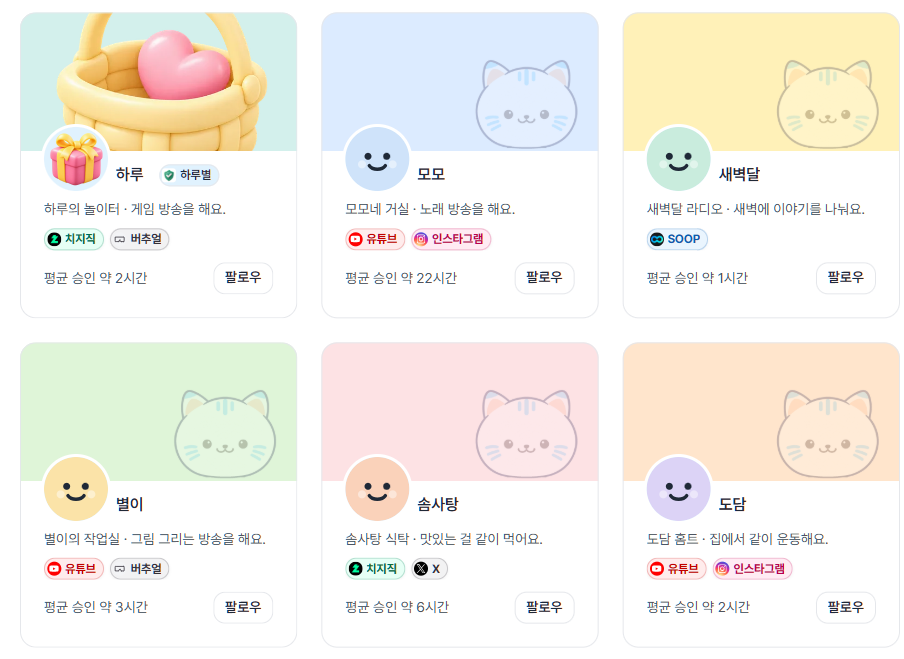
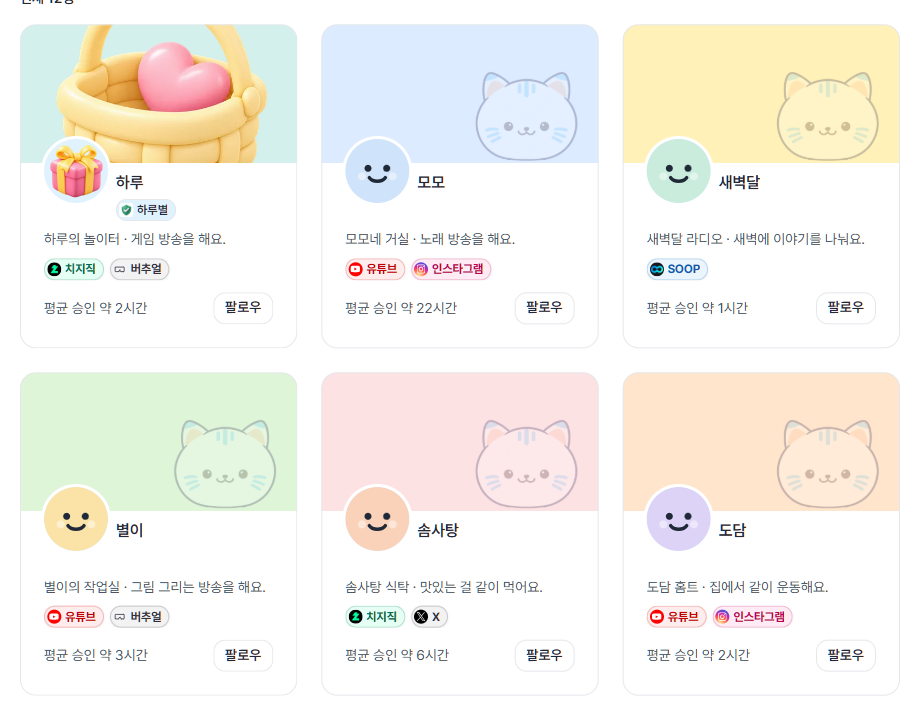
feat(fankkuk): 크리에이터 카드 이름·뱃지 두 줄 — 긴 이름이 뱃지를 밀어내지 않게 · 전후 비교에 긴 이름

diff --git a/projects/fankkuk/src/entities/creator/ui/creator-card-head.module.css b/projects/fankkuk/src/entities/creator/ui/creator-card-head.module.css
@@ -15,21 +15,24 @@
 .cover { position: relative; overflow: hidden; aspect-ratio: 2 / 1; margin: calc(var(--card-pad) * -1) calc(var(--card-pad) * -1) 0; background: var(--pastel, var(--primary-50)); }
 .ringed .cover { background: var(--personal); }
 
-/* 사진 64(배너에 32 걸침, 왼쪽 — 카드 안쪽 여백 24 선) + 오른쪽에 이름·팬덤 뱃지 한 줄(높이 32) */
+/* 사진 64(배너에 32 걸침, 왼쪽 — 카드 안쪽 여백 24 선) + 오른쪽에 이름 한 줄 · 그 아래 뱃지 한 줄(2026-10-18 「A로」 — 한 줄에 두면 긴 이름이 뱃지를 밀어낸다) */
 .who { display: flex; align-items: flex-start; gap: var(--space-2); min-width: 0; }
 .photo:global(.face) { position: relative; flex: none; width: 64px; height: 64px; margin-top: -32px; box-shadow: 0 0 0 3px var(--white); }
 .ringed .photo:global(.face) { box-shadow: 0 0 0 3px var(--personal), 0 0 0 6px var(--white); }
+.id { display: flex; flex-direction: column; gap: var(--space-1); flex: 1; min-width: 0; }
 
-/* 이름(16 · 600, 한 줄 말줄임 — 전체 이름은 title) + 뱃지. 이름이 먼저 줄고, 뱃지는 최소 폭 44 까지 */
-.name { display: flex; align-items: center; gap: var(--space-2); flex: 1; min-width: 0; height: 32px; margin: 0; font-size: var(--fs-body); font-weight: var(--fw-h3); line-height: 1.4; }
-.name > a, .name > span:not([data-fandom-badge]) { flex: 0 1 auto; min-width: 2.2em; overflow: hidden; color: inherit; text-decoration: none; text-overflow: ellipsis; white-space: nowrap; }
+/* 이름(16 · 600, 한 줄 말줄임 — 전체 이름은 title). 이름 칸이 뱃지와 폭을 나누지 않는다 */
+.name { height: 24px; margin: 0; overflow: hidden; font-size: var(--fs-body); font-weight: var(--fw-h3); line-height: 24px; text-overflow: ellipsis; white-space: nowrap; }
+.name > a, .name > span { color: inherit; text-decoration: none; }
 .name a:hover { text-decoration: underline; text-underline-offset: 4px; }
 /* 이름 링크가 카드 전체를 덮으므로 포커스 테두리는 카드(li)에 그린다 — 찾기·팔로우·홈 화면의 .card:has. 이름 칸은 overflow 로 잘리므로 여기선 끈다 */
 .name a:focus-visible { outline: none; }
 /* 카드 전체가 프로필 링크 — 이름 링크가 카드(position: relative)를 덮는다. z-index 1 = 칩 줄(position: relative)·사진보다 위(하단 버튼 .act 는 2) */
 .name a::after { content: ""; position: absolute; inset: 0; z-index: 1; }
-/* 카드 안 뱃지만 최소 폭 44(시안 .fn) — 이름이 길어도 마크와 글자 한두 자는 남는다. 다른 곳의 뱃지는 그대로 */
-.name > [data-fandom-badge] { flex: 0 100 auto; min-width: 44px; overflow: hidden; }
+
+/* 팬덤 뱃지 줄(높이 22) — 뱃지가 없어도 빈칸으로 남는다. 뱃지는 이 줄 폭 안에서만, 넘치면 잘린다(팬덤 이름은 최대 10자라 보통 다 보인다) */
+.badgeRow { display: flex; align-items: center; height: 22px; margin: 0; min-width: 0; }
+.badgeRow > [data-fandom-badge] { min-width: 0; max-width: 100%; overflow: hidden; }
 
 /* 「채널 이름 · 소개」 한 줄(14 회색, 높이 21) — 비어도 자리는 남는다 */
 .line { height: 21px; margin: 0; overflow: hidden; font-size: var(--fs-small); line-height: var(--lh-caption); color: var(--gray-600); text-overflow: ellipsis; white-space: nowrap; }

diff --git a/projects/fankkuk/docs/design/mockups/site/v28-card-redesign/compare.html b/projects/fankkuk/docs/design/mockups/site/v28-card-redesign/compare.html
@@ -25,18 +25,28 @@
 <body>
 <div class="wrap">
   <h1>크리에이터 카드 — 전 · 후</h1>
-  <p class="lead">같은 로컬 데이터(크리에이터 12명), 로그인 전, 개발 서버에서 찍었다. 전 = 커밋 299890ea, 후 = 5ec7a9f5.</p>
+  <p class="lead">같은 로컬 데이터(크리에이터 12명), 로그인 전, 개발 서버에서 찍었다. 전 = 커밋 299890ea, 후 = 5ec7a9f5 + 이름·뱃지 두 줄(사용자 「A로」).</p>
 
   <h2>PC 1440 폭</h2>
   <div class="row">
     <figure><figcaption>전<span>사진 56 가운데 · 팔로우는 배너 모서리 · 승인 시간 없음</span></figcaption><img src="compare/before-1440.png" alt="바꾸기 전 카드 격자, 1440 폭"></figure>
-    <figure><figcaption>후<span>사진 64 왼쪽 · 이름+뱃지 한 줄 · 아래 줄에 승인 시간+팔로우</span></figcaption><img src="compare/after-1440.png" alt="바꾼 뒤 카드 격자, 1440 폭"></figure>
+    <figure><figcaption>후<span>사진 64 왼쪽 · 이름 줄 아래 뱃지 줄 · 아래 줄에 승인 시간+팔로우</span></figcaption><img src="compare/after-1440.png" alt="바꾼 뒤 카드 격자, 1440 폭"></figure>
   </div>
 
   <h2>휴대폰 390 폭 (앞 두 장)</h2>
   <div class="row narrow">
     <figure><figcaption>전</figcaption><img src="compare/before-390.png" alt="바꾸기 전 카드, 390 폭"></figure>
     <figure><figcaption>후</figcaption><img src="compare/after-390.png" alt="바꾼 뒤 카드, 390 폭"></figure>
+  </div>
+  <h2>긴 이름 — 이름 20자 · 팬덤 이름 10자 (첫 카드)</h2>
+  <p class="lead" style="margin-bottom:16px">이름은 최대 20자, 팬덤 이름은 최대 10자까지 저장된다. 첫 카드에만 꽉 채운 값을 넣었다(화면에서 글자만 바꿔 찍음).</p>
+  <div class="row">
+    <figure><figcaption>한 줄일 때<span>이름이 자리를 다 써서 뱃지가 「하..」 한 글자만 남음 (두·세 번째 카드는 시험 중 틀어진 것 — 첫 카드만 보기)</span></figcaption><img src="compare/long-oneline-1440.png" alt="이름과 뱃지를 한 줄에 둔 카드, 긴 이름"></figure>
+    <figure><figcaption>두 줄(A)<span>1024 폭 — 카드가 가장 좁은 폭. 이름만 말줄임, 뱃지 10자 전부 보임</span></figcaption><img src="compare/long-after-1024.png" alt="이름 아래 뱃지를 둔 카드, 긴 이름, 1024 폭"></figure>
+  </div>
+  <div class="row narrow" style="margin-top:24px">
+    <figure><figcaption>두 줄(A) · 1440</figcaption><img src="compare/long-after-1440.png" alt="이름 아래 뱃지, 1440 폭"></figure>
+    <figure><figcaption>두 줄(A) · 390</figcaption><img src="compare/long-after-390.png" alt="이름 아래 뱃지, 390 폭"></figure>
   </div>
 </div>
 </body>

diff --git a/projects/fankkuk/src/entities/creator/ui/creator-card-head.tsx b/projects/fankkuk/src/entities/creator/ui/creator-card-head.tsx
@@ -11,7 +11,8 @@ import s from "./creator-card-head.module.css";
 // 크리에이터 카드 — 크리에이터 찾기·팔로우한 크리에이터·홈 새 크리에이터가 같이 쓴다(design-rules 17절 「크리에이터 카드 v28」,
 // 시안 docs/design/mockups/site/v28-card-redesign/index.html, DECISIONS 2026-10-18).
 // 위에서 아래로(줄 사이 8): 배너 2:1(배경사진, 없으면 테마 색 면 그대로 또는 파스텔 + 오른쪽 흐린 고양이)
-// → 사진 64(배너에 32 걸침, 왼쪽) + 오른쪽에 이름(600·한 줄 말줄임)·팬덤 뱃지 한 줄(CreatorCardHead)
+// → 사진 64(배너에 32 걸침, 왼쪽) + 오른쪽에 이름(600·한 줄 말줄임) 한 줄, 그 아래 팬덤 뱃지 한 줄(CreatorCardHead)
+//   — 한 줄에 나란히 두면 긴 이름이 뱃지를 「하..」까지 밀어내서 두 줄로 나눴다(2026-10-18 사용자 「A로」)
 // → 「채널 이름 · 소개」 한 줄(CreatorCardLine) → 플랫폼 칩 한 줄(CreatorCardTags)
 // → 하단 줄(CreatorCardFoot): 왼쪽 평균 승인 시간 · 오른쪽 버튼(팔로우·팔로우 중·내 페이지), 칩 줄과 12 띄움.
 // 줄마다 자리가 고정이다 — 소개·칩이 없어도 빈칸으로 남아 카드 높이가 같다.
@@ -50,16 +51,21 @@ export function CreatorCardHead({
       </div>
       <div className={s.who}>
         <CreatorPhoto photoUrl={look.photoUrl} tone={faceTone} className={`face ${s.photo}`} />
-        <p className={s.name}>
-          {href ? (
-            <Link href={href} title={name}>
-              {name}
-            </Link>
-          ) : (
-            <span title={name}>{name}</span>
-          )}
-          {look.fanName ? <FandomBadge name={look.fanName} symbolUrl={look.symbolUrl} themeColor={theme} /> : null}
-        </p>
+        <div className={s.id}>
+          <p className={s.name}>
+            {href ? (
+              <Link href={href} title={name}>
+                {name}
+              </Link>
+            ) : (
+              <span title={name}>{name}</span>
+            )}
+          </p>
+          {/* 뱃지 줄 — 뱃지가 없어도 자리는 남는다(카드 높이를 같게) */}
+          <p className={s.badgeRow}>
+            {look.fanName ? <FandomBadge name={look.fanName} symbolUrl={look.symbolUrl} themeColor={theme} /> : null}
+          </p>
+        </div>
       </div>
     </div>
   );

diff --git a/projects/fankkuk/src/entities/creator/ui/creator-card.test.tsx b/projects/fankkuk/src/entities/creator/ui/creator-card.test.tsx
@@ -38,7 +38,7 @@ describe("칩 줄에 들어가는 칩 수", () => {
   });
 });
 
-describe("크리에이터 카드 v28 — 사진 왼쪽 + 이름·뱃지 한 줄, 하단 줄 (design-rules 17절)", () => {
+describe("크리에이터 카드 v28 — 사진 왼쪽 + 이름 줄·뱃지 줄, 하단 줄 (design-rules 17절)", () => {
   const head = (fanName: string | null, personal: string | null = null, href: string | null = "/c/dawn") =>
     dom(
       renderToStaticMarkup(
@@ -62,13 +62,22 @@ describe("크리에이터 카드 v28 — 사진 왼쪽 + 이름·뱃지 한 줄,
     expect(preview.querySelector("[title]")?.textContent).toBe("새벽달빛라디오하루별이야하루별이달빛방송");
   });
 
-  it("팬덤 뱃지는 이름과 같은 줄(이름 바로 뒤) — 사진은 그 줄 앞", () => {
+  it("팬덤 뱃지는 이름 아래 자기 줄 — 이름 줄과 나눠서 긴 이름이 뱃지를 밀어내지 않는다, 사진은 두 줄 앞", () => {
     const host = head("달빛지기");
     const badge = host.querySelector("[data-fandom-badge]");
     expect(badge?.textContent).toBe("달빛지기");
-    expect(badge?.previousElementSibling?.tagName).toBe("A");
-    expect(badge?.parentElement?.previousElementSibling?.classList.contains("face")).toBe(true);
-    expect(head(null).querySelector("[data-fandom-badge]")).toBeNull();
+    const badgeRow = badge?.parentElement;
+    // 뱃지 줄에는 뱃지뿐, 바로 위 형제가 이름 줄(링크 하나)
+    expect(badgeRow?.children.length).toBe(1);
+    const nameRow = badgeRow?.previousElementSibling;
+    expect(nameRow?.querySelector("a")?.textContent).toBe(nameRow?.textContent);
+    expect(nameRow?.contains(badge ?? null)).toBe(false);
+    // 두 줄을 감싼 칸 바로 앞이 사진
+    expect(badgeRow?.parentElement?.previousElementSibling?.classList.contains("face")).toBe(true);
+    // 뱃지가 없어도 뱃지 줄 자리는 남는다(카드 높이를 같게)
+    const empty = head(null);
+    expect(empty.querySelector("[data-fandom-badge]")).toBeNull();
+    expect(empty.querySelector("a")?.parentElement?.nextElementSibling?.tagName).toBe("P");
   });
 
   it("INV-E13 S12: 사진 없는 배너·팬덤 뱃지가 테마 색을 쓴다(머리 변수 --personal · 뱃지 면)", () => {

diff --git a/projects/fankkuk/docs/design/design-rules.md b/projects/fankkuk/docs/design/design-rules.md
@@ -378,7 +378,7 @@ status: approved
 시안 `docs/design/mockups/site/v28-card-redesign/`(index.html · settings.html). 크리에이터 찾기·팔로우한 크리에이터·홈 새 크리에이터 카드가 같은 부품이다. 이 절이 「크리에이터 카드·공개 프로필 머리」의 카드 부분(가운데 정렬·모서리 버튼, 카드 d103)보다 앞선다.
 
 - 배너 2:1 · object-fit cover. 사진 없으면 테마 색 면(그대로, 섞지 않음) + 오른쪽 흐린 고양이(불투명도 0.22). 테마 색도 없으면 크리에이터 ID 로 정한 파스텔.
-- 사진 64, 배너에 32 걸침, 왼쪽(카드 안쪽 여백 24 선). 사진 오른쪽에 이름(16 · 600, 한 줄 말줄임) + 팬덤 뱃지(12, 최소 폭 44) 한 줄.
+- 사진 64, 배너에 32 걸침, 왼쪽(카드 안쪽 여백 24 선). 사진 오른쪽에 이름(16 · 600, 한 줄 말줄임, 높이 24) 한 줄, 그 아래 4 띄워 팬덤 뱃지(12) 한 줄(높이 22, 뱃지 없어도 자리 유지). 2026-10-18 사용자 「A로」 — 한 줄에 나란히 두면 긴 이름(최대 20자)이 뱃지를 「하..」까지 밀어냈다. 이름 20자 · 팬덤 10자를 넣어 1024(카드가 가장 좁은 폭)·1440·390 에서 뱃지가 다 보이는 것을 확인.
 - 본문 세 줄, 줄 사이 8: ① 「채널 이름 · 소개」 14 회색 한 줄 말줄임 ② 칩 한 줄(넘치면 +N) ③ 하단 줄 — 왼쪽 평균 승인 시간 14 회색(#4B5563), 오른쪽 「팔로우」 테두리 버튼 높이 32 · 누름 칸 44. 하단 줄은 칩 줄과 12 띄운다.
 - 카드 안쪽 여백 24(--card-pad), 반경 16, 카드 전체가 프로필 링크 · 버튼은 그 위(이동 안 됨). 마우스를 올리면 테두리 진하게, 초점은 카드에 3px 테두리.
 - 격자: 공개 폭 880 안에서 1024 이상 3열 · 640 이상 2열 · 그 아래 1열, 간격 24(휴대폰 16).

diff --git a/projects/fankkuk/workspace/review.md b/projects/fankkuk/workspace/review.md
@@ -1,7 +1,7 @@
 ---
 project: fankkuk
 status: passed
-basis: 94477ad1efaf
+basis: 86204fbb4230
 reviewers: [security-reviewer, code-reviewer, ui-reviewer, test-auditor]
 ---
 
@@ -16,3 +16,4 @@ reviewers: [security-reviewer, code-reviewer, ui-reviewer, test-auditor]
 - ui-reviewer: 4건 — 설정 카드 미리보기 머리만 → 카드 전체 / 휴대폰 홈 카드 줄 초점 테두리 잘림 → 여백 / 칩·뱃지 왼쪽 3px → 아이콘 보정이라 유지 / design-rules 권장 크기 1200×480 → 1200×600.
 - code-reviewer: 8건 — 홈 4→3장 근거(design-rules 16절·DECISIONS 기록) / personal 타입 ThemeColor 로 좁힘·재검사 한곳 / 쓰이지 않는 --on-personal 삭제(띠 위 글자 없음 — 스펙 INV-E14 고침) / 카드 틀 CSS 중복 하나로 / 주석 잔재 / 「내 페이지」 태그 누름 통과 / NO_COLORS / 미리보기 creatorId.
 - 실행 근거: `npm test` 284 파일 2252 통과 · `tsc` 0 · copy:lint 0 · `creator-settings-db` 통합 35 통과 · 변이: DB 8색 검사 끔 → S12b 실패, 마이그레이션 비우기 뺌 → S12c 실패, --badge-ink 흰색 → S13 실패 · Playwright /creators 1440(3열·24)·390(1열·16) 콘솔 에러 0·가로 넘침 0, 설정 테마 색 칸(시험 계정 하루, 개발 서버).
+- 추가(사용자 「A로」): 이름·뱃지를 한 줄 → 이름 줄 아래 뱃지 줄. ui-reviewer 지적 없음. 실행 근거: `npm test` 2252 통과 · tsc 0 · 자리 시험을 두 줄 구조로 고쳐 옛 한 줄 구조에서 1 실패 확인 · Playwright 이름 19자·팬덤 10자 넣어 1440·1024·390 에서 뱃지 전부 보임(뱃지 폭 133), 카드 높이 324 로 같음.

diff --git a/projects/fankkuk/docs/DECISIONS.md b/projects/fankkuk/docs/DECISIONS.md
@@ -993,3 +993,4 @@ Vite SPA 기각 — 서버 일을 Supabase 함수로 떼어 원본 흐름을 다
 - 배경 사진 올리기 칸 안내에 「권장 크기 1200×600px」 한 줄.
 - 홈 새 크리에이터·팔로우 카드 줄 4장 → 3장(같은 이유 — 880 폭에 4장이면 카드 약 202px).
 - 스펙 creator-link INV-E13·E14·S12~S13b 를 이 결정대로 고쳤다.
+- 이름·뱃지 두 줄(사용자 「A로」): 사진 오른쪽 한 줄에 나란히 두면 이름이 길 때(최대 20자) 뱃지가 최소 폭까지 줄어 한 글자만 남는다 — 이름 줄 아래 뱃지 줄로 나눴다. 카드가 18px 길어진다(306 → 324).

diff --git a/projects/fankkuk/workspace/HANDOFF.md b/projects/fankkuk/workspace/HANDOFF.md
@@ -19,7 +19,7 @@
   },
   "design/page-designer": {
     "status": "clean",
-    "hash": "be4173e0eeb1"
+    "hash": "0c40d900fde2"
   },
   "design/schema-designer": {
     "status": "clean",
@@ -27,7 +27,7 @@
   },
   "implement": {
     "status": "clean",
-    "hash": "94477ad1efaf"
+    "hash": "86204fbb4230"
   },
   "qa": {
     "status": "clean",
@@ -35,7 +35,7 @@
   },
   "review": {
     "status": "clean",
-    "hash": "103c06b4affe"
+    "hash": "5084272c3dec"
   },
   "deploy": {
     "status": "dirty",
